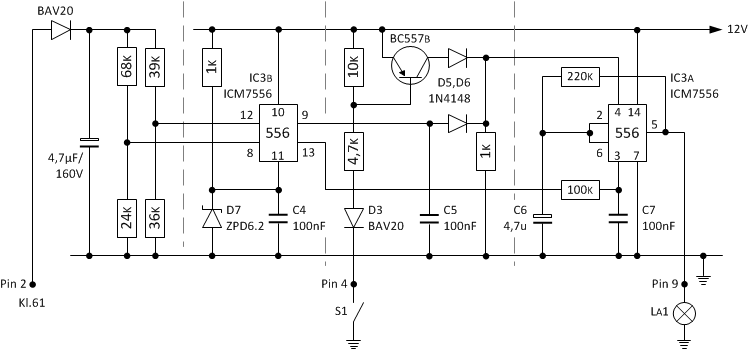
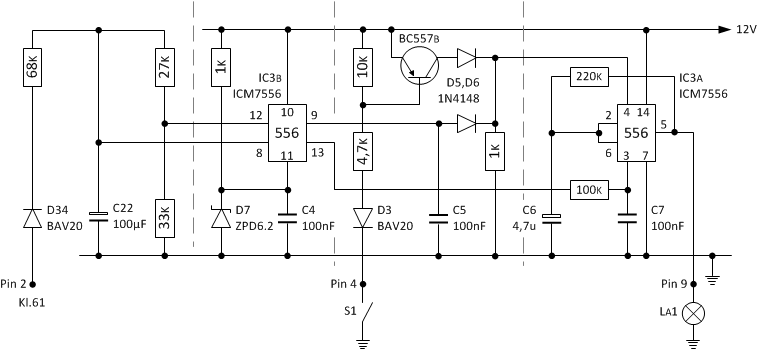
Update Control

diff --git a/pages/kontrollanzeige_2.md b/pages/kontrollanzeige_2.md
@@ -21,13 +21,31 @@ Der Pin _Control Voltage_ benötigt eine stabile Spannung, um die korrekten Umsc
 
 Der Einsatz des Kondensator C5 schafft Abhilfe gegen Störungen beim Wechsel vom Zustand _High_ in den Zustand _Low_. Aufgabe der PNP-Schaltstufe war es, die Versorgungsspannung zu schalten. Der Ausgangsstrom des _Timer_-Bausteins reicht ausreicht, um den Kontrollanzeige zum Leuchten zu bringen. Das Datenblatt verrät den maximalen Ausgangstrom der beim NE555 bis zu 200 mA betragen darf. Sollte der Ausgang sogar gegen Masse oder die Betriebsspannung kurzgeschlossen sein, fließt der eben genannte Strom aus bzw. in den Ausgangspin und die Spannung bricht zusammen.
 
-Ein am Gleichrichter Klemme 61 bzw. D+ angeschlossener Spannungsteiler wird so ausgelegt und an Pin _Trigger_ angeschlossen, dass die Spannung an _Trigger_ gleich die Hälfte von der Referenzspannung von _Control Voltage_ ist. Dies ist der gewünschte Unterspannungsschaltpunkt. Wenn die Spannung an Klemme 61 unter diesen Sollwert sinkt, geht die Spannung am Ausgang _Output_ auf [High](http://de.wikipedia.org/wiki/Logikpegel).
+Ein am Gleichrichter Klemme 61 bzw. D+ angeschlossener Spannungsteiler bestehend aus R1 und R2 wird so ausgelegt und an Pin _Trigger_ angeschlossen, dass die Spannung an _Trigger_ gleich die Hälfte von der Referenzspannung von _Control Voltage_ ist. Dies ist der gewünschte Unterspannungsschaltpunkt. Wenn die Spannung an Klemme 61 unter diesen Sollwert sinkt, geht die Spannung am Ausgang _Output_ auf [High](http://de.wikipedia.org/wiki/Logikpegel).
 
-Ein zweiter Spannungsteiler wird an _Treshold_ angeschlossen. Er ist so eingestellt, dass die Spannung an _Treshold_ gleich der Spannung von _Control Voltage_ ist, wenn die Batteriespannung auf dem gewünschten Sollwert ist. Wenn die Spannung an Klemme 61 diesen Sollwert überschreitet, geht die Spannung an Pin  _Output_ auf [Low](http://de.wikipedia.org/wiki/Logikpegel).
+Der Spannungsteiler bestehend aus R4 und R1+R2 wird so ausgelegt und an _Treshold_ angeschlossen, dass die Spannung an _Treshold_ gleich der Spannung von _Control Voltage_ ist, wenn die Batteriespannung auf dem gewünschten Sollwert ist. Wenn die Spannung an Klemme 61 diesen Sollwert überschreitet, geht die Spannung an Pin  _Output_ auf [Low](http://de.wikipedia.org/wiki/Logikpegel).
 
 ![Kontrollanzeige NE555 Abb.2](../images/Kontrollanzeige_mit_555_2.png)
 
-Die Widerstände R1, R2 und R3, R4 bilden die beiden Spannungsteiler. Betreffs der Größe vom Widerstand kommt es ganz auf die Anwendung an. In der Praxis eignen sich gut Werte von 10k bis einigen 100k. Der Wert von R1 beträgt 68k und der Wert von R2 beträgt 24k für den Umschaltpunkt der Unterspannung. Der Widerstand R3 ist mit 39k und R4 mit 33k festgelegt, um den Umschalztpunkt für die Sollspannung festzulegen.
+Der Widerstand R2 wird einfach festgelegt. Betreffs der Größe vom Widerstand R2 kommt es ganz auf die Anwendung an. In der Praxis eignen sich gut Werte von 10k bis 100k. Der Widerstand R2 wird mit 33k festgelegt. Die Utere Schaltschwelle soll bei 11,9V und die obere bei 13,4V liegen. Der Widerstand R1 wird Anhand der Hysterese (13,4V - 11,9V) nach folgender Formel berechnet:
+
+```
+R1 = R2 * (2 * V0(low) / V0(high) - 1) = 33k * (2 * 11,9 / 13,4 - 1) = 25,6k
+```
+
+Der nächst passende Wert für R1 beträgt 27k. Der Widerstand R4 wird unter Verwendung der Referenzspannung (Vz = 6,2V) sowie R1 und R2 über die folgende Formel berechnet:
+
+```
+R4 = R2 * (2 * V0(low) / Vz - 1) - R1 = 33k * (2 * 11,9 / 6,2 - 1) - 27k = 66,7k
+```
+
+Für den Widerstand R4 wird ein Wert von 68k genommen, dieser definiert mit den oben genannten Widerständen R1 und R2 die nun _tatsächlichen_ Umschaltpunkte 12,0V (_low_) und 13,2V (_high_). Für die Bestimmung der _tatsächlichen_ Umschaltpunkte wurden folgende Formeln verwendet:
+
+```
+V(low) = Vz * (R1 + R2 + R4) / (R1 + R2)
+
+V(high) = Vz / 2 * (R1 + R2 + R4) / R2
+```
 
 ## Erweiterung Öldruckkontrollanzeige
 Die Kontrollanzeige La1 soll wie bisher bei Verlust des Öldrucks ebenfalls zur Anzeige kommen. Die Anschaltung des Sensors (Schalten der Masse bei Öldruckverlust) erfolgt einfach an den _Trigger_ Eingang vom _Timer_-Baustein. Zu beachten ist jedoch, dass nur bei der CMOS-Version des _Timer_-Bausteins der Eingang _Trigger_ vorrangig dem Eingang _Treshold_ ist.
@@ -43,9 +61,9 @@ Die gesamte Schaltung für die Kontrollanzeige mit zusätzlicher _Blinkstufe_ si
 
 ![Kontrollanzeige (CMOS TLC556)](../images/Kontrollanzeige_556.png)
 
-Die Schaltug wurde durch eine nachgelagerte [Astabile Kippstufe](http://de.wikipedia.org/wiki/Multivibrator#Astabiler_Multivibrator_mit_NE555) ergänzt, damit die Anzeige nicht nur einfach leuchtet sondern blinkt. Zudem wurde die Schaltung angepasst, sodass zwischen den beiden unterschiedliche Ereignissen - _Störung Generator_ und _Öldruckverlust_ - unterschieden werden kann. Jedes Erreignis hat eine eigene Blinkfrequenz.
+Die Schaltug wurde durch eine nachgelagerte [Astabile Kippstufe](http://de.wikipedia.org/wiki/Multivibrator#Astabiler_Multivibrator_mit_NE555) ergänzt, damit die Anzeige nicht nur einfach leuchtet sondern blinkt. Zudem wurde die Schaltung angepasst, sodass zwischen den beiden unterschiedlichen Ereignissen - _Störung Generator_ und _Öldruckverlust_ - unterschieden werden kann. Jedes Erreignis hat eine eigene Blinkfrequenz.
 
-Die Beeinflussung der Frequenz erfolgt am Eingang _Control Voltage_ der Astabile Kippstufen, welche vom _Discharge_ Ausgang der Unterspannungschaltung angesteuert wird. Zusätzlich wurde die Anschaltung des Ödruckschalters nicht wie weiter an der Unterspannungschaltung sondern, mittels einer einfachen Logik bestehend aus Transisor und Dioden (abgek. [DTL](http://de.wikipedia.org/wiki/Diode-Transistor-Logik)) an die nachgelagerten Kippstufe integriert. 
+Die Beeinflussung der Frequenz erfolgt am Eingang _Control Voltage_ der Astabile Kippstufen, welche vom _Discharge_ Ausgang der Unterspannungschaltung angesteuert wird. Zusätzlich wurde die Anschaltung des Ödruckschalters nicht wie weiter oben an die Unterspannungschaltung sondern, mittels einer einfachen Logik bestehend aus Transisor und Dioden (abgek. [DTL](http://de.wikipedia.org/wiki/Diode-Transistor-Logik)), an die nachgelagerten Kippstufe angeschaltet. 
 
 Bleibt noch zu erwähnen, dass beim Ereignis _Öldruckverlust_ die Kontrolllampe schneller blinkt, als beim Ereignis _Störung Generator_ und dass das Ereignis _Störung Generator_ Vorrang hat. In der fertigen Schaltung wird zusätzlich noch ein Stützkondensator C8 von 100nF direkt am TLC556 zwischen Speisespannung und Masse eingesetzt.
 
